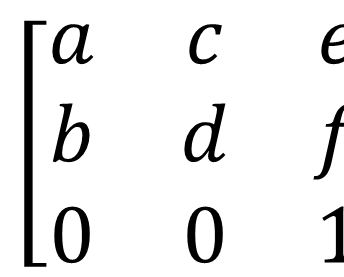
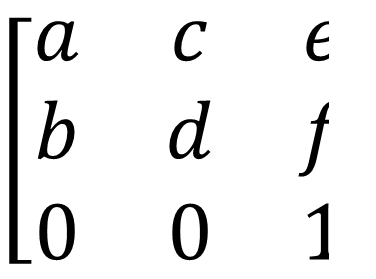
''

diff --git a/transform.html b/transform.html
@@ -5,6 +5,16 @@
     <title>矩阵变换</title>
     <!--
        在介绍矩阵变换transform()前，我们来说一说什么是变换矩阵。
+       以上是Canvas中transform()方法所对应的变换矩阵。而此方法正是传入图中所示的六个参数，
+       具体为context.transform(a,b,c,d,e,f)。
+       各参数意义对应如下表：1,0(水平和垂直缩放默认值是1，代表缩放1倍，即不缩放)
+       参数	意义
+        a	水平缩放(1)
+        b	水平倾斜(0)
+        c	垂直倾斜(0)
+        d	垂直缩放(1)
+        e	水平位移(0)
+        f	垂直位移(0)
     -->
     <style>
         body { background: url("./bg3.jpg") repeat; }
@@ -26,15 +36,32 @@
         context.fillStyle = "#fff";
         context.fillRect(0,0,800,600);
 
-        /*var Img =  new Image();
-        Img.src = "cavasImg.jpg";
-
+        var Img =  new Image();
+        Img.src = "transform.png";
         Img.onload = function(){
-            var pattern = context.createPattern(img, "repeat-x");
+            var pattern = context.createPattern(Img, "repeat-x");
             context.fillStyle = pattern;
             context.strokeStyle = pattern;
-            context.rect(0,0, 100,100);
-        }*/
+            context.scale(0.5,0.5);
+            context.fillRect(0,0, Img.width,Img.height);
+        }
+
+        context.save();
+        context.fillStyle = "yellow";
+        context.strokeStyle = "#00AAAA";
+        context.lineWidth = 5;
+
+        context.save();
+        //平移至(300,200)
+        context.transform(1,0,0,1,300,100);
+        //水平方向放大2倍，垂直方向放大1.5倍
+        context.transform(2,0,0,1.5,0,0);
+
+        //水平方向向右倾斜宽度10%的距离，垂直方向向上倾斜高度10%的距离
+            context.transform(1,-0.1,0.1,1,0,0);
+        context.fillRect(0,0,200,200);
+        context.strokeRect(0,0,200,200);
+        context.restore();
 
     }
 </script>

diff --git a/setTransform.html b/setTransform.html
@@ -1,0 +1,53 @@
+<!DOCTYPE html>
+<html lang="en">
+<head>
+    <meta charset="UTF-8">
+    <title>setTransform()方法</title>
+    <style>
+        body { background: url("./bg3.jpg") repeat; }
+        #canvas { border: 1px solid #aaaaaa; display: block; margin: 50px auto; }
+    </style>
+    <!--
+        不会延续之前的绘图,不会影响
+
+        transform()方法的行为相对于由 rotate(),scale(), translate(), or transform() 完成的其他变换。
+        例如：如果我们已经将绘图设置为放到两倍，则 transform() 方法会把绘图放大两倍，那么我们的绘图最终将放大四倍。
+        这一点和之前的变换是一样的。
+
+        但是setTransform()不会相对于其他变换来发生行为。它的参数也是六个，context.setTransform(a,b,c,d,e,f)，
+        与transform()一样。
+
+        这里我们通过一个例子来说明： 绘制一个矩形，通过 setTransform() 重置并创建新的变换矩阵，再次绘制矩形，
+        重置并创建新的变换矩阵，然后再次绘制矩形。
+    -->
+</head>
+<body>
+    <div id="canvas-warp">
+        <canvas id="canvas">
+            你的浏览器居然不支持Canvas？！赶快换一个吧！！
+        </canvas>
+    </div>
+</body>
+<script>
+    window.onload = function(){
+        var canvas = document.getElementById("canvas");
+        canvas.width = 800;
+        canvas.height = 600;
+        var context = canvas.getContext("2d");
+        context.fillStyle = "#FFF";
+        context.fillRect(0,0,800,600);
+
+        context.fillStyle="yellow";
+        context.fillRect(200,100,250,100)
+        context.setTransform(1,0.5,-0.5,1,30,10);
+
+        context.fillStyle="red";
+        context.fillRect(200,100,250,100);
+        context.transform(1,0.5,-0.5,1,30,10);
+
+        /*context.fillStyle="blue";
+        context.fillRect(200,100,250,100);*/
+    };
+</script>
+
+</html>

diff --git a/text.html b/text.html
@@ -1,0 +1,50 @@
+<!DOCTYPE html>
+<html lang="en">
+<head>
+    <meta charset="UTF-8">
+    <title>文本显示与渲染</title>
+    <!--
+        1.文本 API 简介
+            属性	描述
+            font	        设置或返回文本内容的当前字体属性
+            textAlign	    设置或返回文本内容的当前对齐方式
+            textBaseline	设置或返回在绘制文本时使用的当前文本基线
+       2. 方法	描述
+            fillText()	    在画布上绘制“被填充的”文本
+            strokeText()	在画布上绘制文本（无填充）
+            measureText()	返回包含指定文本宽度的对象
+    -->
+    <style>
+        body { background: url("./bg3.jpg") repeat; }
+        #canvas { border: 1px solid #aaaaaa; display: block; margin: 50px auto; }
+    </style>
+</head>
+<body>
+    <div id="canvas-warp">
+        <canvas id="canvas">
+            你的浏览器居然不支持Canvas？！赶快换一个吧！！
+        </canvas>
+    </div>
+</body>
+<script>
+    window.onload =  function(){
+        var canvas =  document.getElementById("canvas");
+
+        canvas.width = 800;
+        canvas.height = 600;
+
+        var context =  canvas.getContext("2d");
+        context.fillStyle = '#fff';
+        context.fillRect(0,0,800,600);
+
+        //1. 使用`font`设置字体。
+        context.font = ' 50px serif ' ;
+
+        //2. 使用`fillStyle`设置字体颜色。
+        context.fillStyle =  "#00AAAA" ;
+
+        //3. 使用`fillText()`方法显示字体。
+        context.fillText("《CANVAS--Draw on the Web》",50,300);
+    }
+</script>
+</html>
